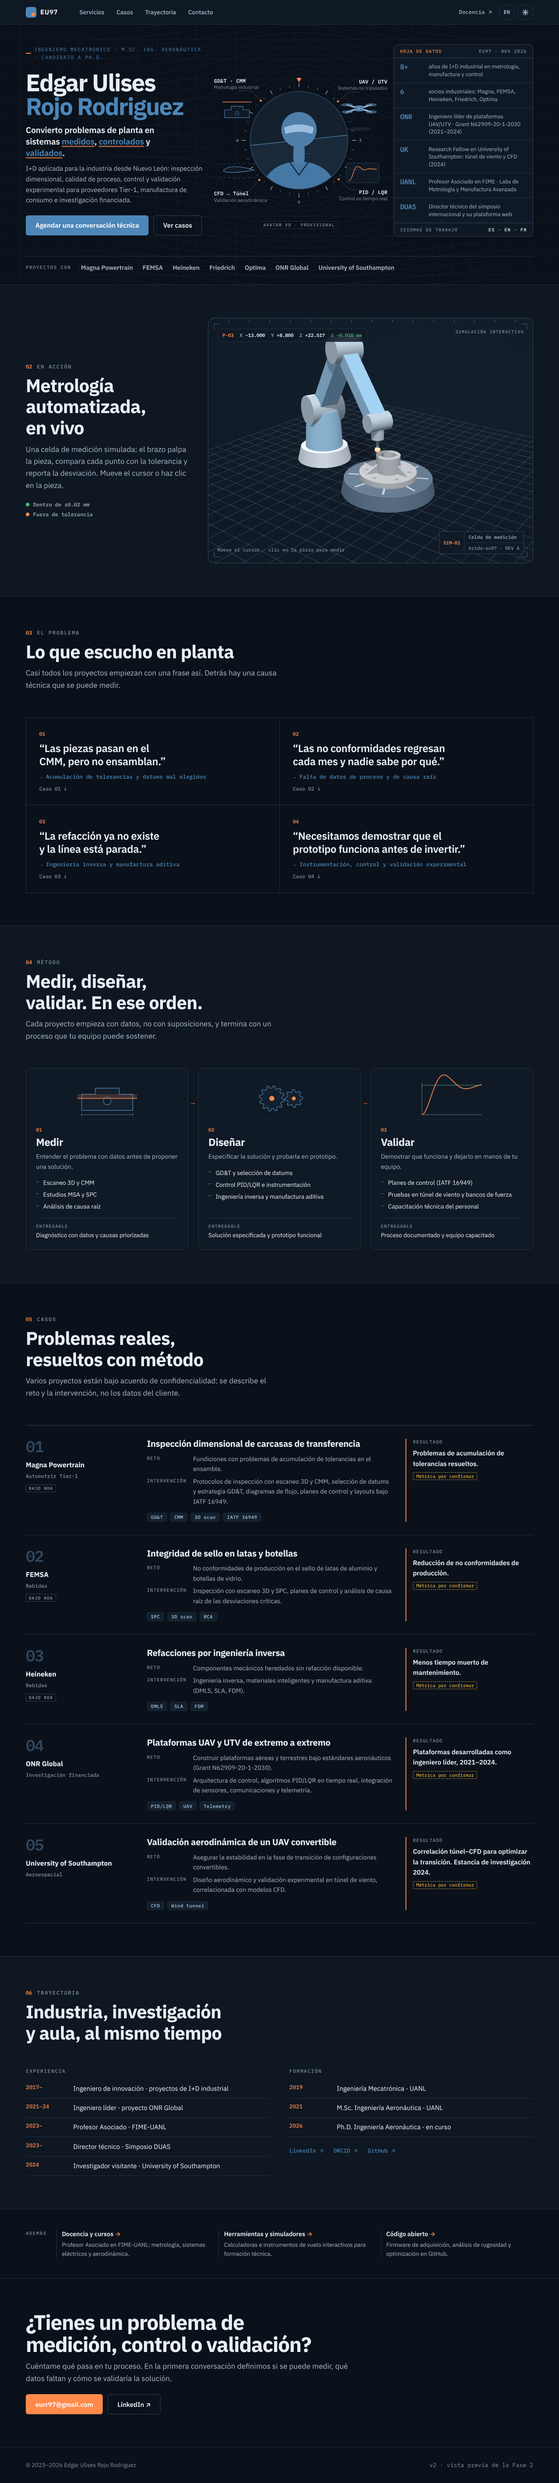
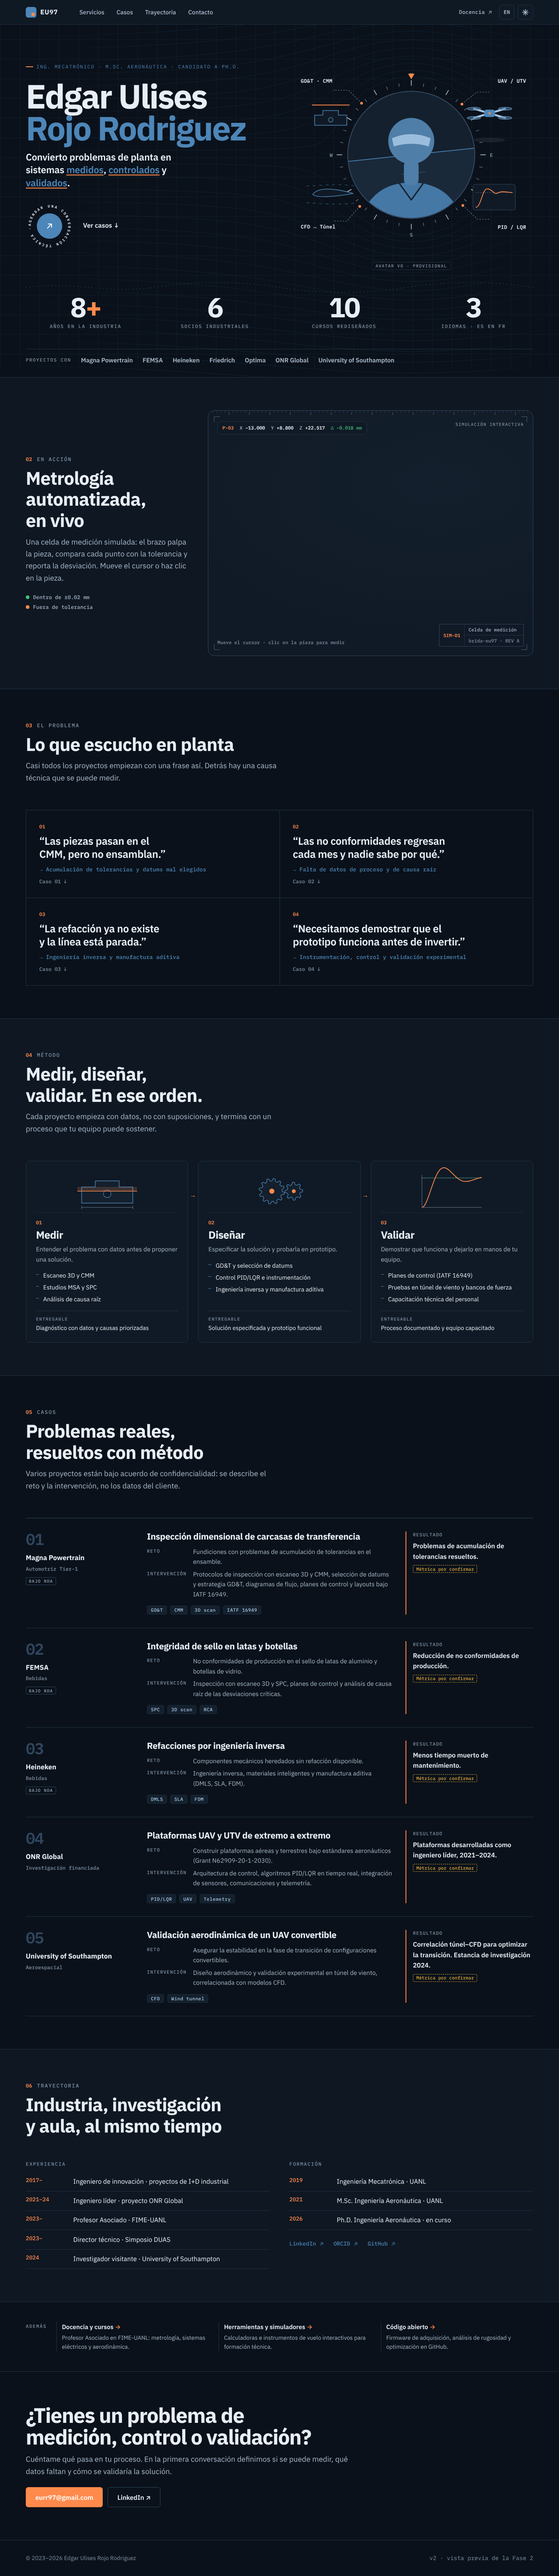
feat: hero más compacto con cifras y sello de contacto
- Se quitan la hoja de datos, el párrafo largo y los botones del hero.
- Cifras como en el sitio original (8+ años, 6 socios, 10 cursos,
  3 idiomas): grandes, sin cajas, con conteo y una línea de corriente.
- Contacto como sello circular con texto giratorio + enlace a casos.
- Etiquetas del avatar reducidas a la palabra clave; nombre más grande.

Claude-Session: https://claude.ai/code/session_01PvjHe33K872SCB2Q6VrJQ3

diff --git a/v2/home.css b/v2/home.css
@@ -28,20 +28,19 @@
 }
 .hero__wrap {
   position: relative; z-index: 1; width: min(100% - 2rem, var(--container)); margin-inline: auto;
-  display: grid; grid-template-columns: minmax(0, 1.05fr) minmax(0, 1fr) minmax(0, .82fr); gap: var(--space-5); align-items: center;
+  display: grid; grid-template-columns: minmax(0, 1fr) minmax(0, 1fr); gap: var(--space-5) var(--space-7); align-items: center;
 }
 .hero__name {
-  font-size: clamp(2.6rem, 4.3vw, 4rem); line-height: .98; letter-spacing: -.035em; font-weight: 700;
+  font-size: clamp(2.8rem, 6vw, 5.4rem); line-height: .95; letter-spacing: -.035em; font-weight: 700;
   margin: var(--space-3) 0 var(--space-4);
 }
 .hero__name span { display: block; color: var(--primary); }
-.hero__claim { font-size: clamp(1.15rem, 1.5vw, 1.35rem); line-height: 1.35; color: var(--ink); font-weight: 600; letter-spacing: -.01em; max-width: 30ch; margin-bottom: var(--space-3); }
+.hero__claim { font-size: clamp(1.15rem, 1.7vw, 1.45rem); line-height: 1.35; color: var(--ink); font-weight: 600; letter-spacing: -.01em; max-width: 30ch; margin-bottom: var(--space-3); }
 .hero__claim em { font-style: normal; color: var(--primary); box-shadow: inset 0 -.14em 0 color-mix(in srgb, var(--accent) 70%, transparent); }
-.hero__lede { font-size: 1rem; max-width: 48ch; }
 .hero__cta { display: flex; flex-wrap: wrap; gap: var(--space-3); margin-top: var(--space-5); }
 
 /* Avatar (v0, provisional) */
-.avatar { position: relative; margin: 0 auto; width: min(100%, 470px); aspect-ratio: 1; }
+.avatar { position: relative; margin: 0 auto; width: min(100%, 540px); aspect-ratio: 1; }
 .avatar__svg { width: 100%; height: 100%; overflow: visible; display: block; }
 .av-sky { fill: var(--steel-50); }
 .av-ground { fill: color-mix(in srgb, var(--steel-100) 70%, var(--surface-2)); }
@@ -87,26 +86,41 @@
 .av-sp { stroke: var(--ink-3); stroke-width: .8; stroke-dasharray: 2 3; }
 .av-trace { fill: none; stroke: var(--accent); stroke-width: 1.6; stroke-dasharray: 1; animation: draw 3.6s var(--ease) infinite; }
 /* etiquetas */
-.av-label { position: absolute; display: flex; flex-direction: column; gap: .05rem; font-size: .74rem; color: var(--ink-3); line-height: 1.25; pointer-events: none; }
-.av-label b { font: 600 .78rem var(--font-mono); color: var(--ink); letter-spacing: .02em; }
-.av-label--tl { left: 0; top: 13%; }
-.av-label--tr { right: -2%; top: 13.5%; text-align: right; align-items: flex-end; }
-.av-label--bl { left: 0; bottom: 13%; }
-.av-label--br { right: -2%; bottom: 14%; text-align: right; align-items: flex-end; }
+.av-label { position: absolute; font: 600 .78rem var(--font-mono); color: var(--ink); letter-spacing: .02em; pointer-events: none; }
+.av-label--tl { left: 0; top: 15%; }
+.av-label--tr { right: -2%; top: 15%; text-align: right; }
+.av-label--bl { left: 0; bottom: 16%; }
+.av-label--br { right: -2%; bottom: 16%; text-align: right; }
 .av-tag { position: absolute; left: 50%; bottom: -2%; transform: translateX(-50%); white-space: nowrap; font: 500 .66rem var(--font-mono); letter-spacing: .12em; text-transform: uppercase; color: var(--ink-3); border: 1px dashed var(--line-strong); border-radius: 3px; padding: .1rem .5rem; background: var(--bg); }
 
-/* Hoja de datos */
-.datasheet { border: 1px solid var(--line-strong); border-radius: var(--radius); background: color-mix(in srgb, var(--surface) 92%, transparent); backdrop-filter: blur(6px); box-shadow: var(--shadow-1); }
-.datasheet__head, .datasheet__foot { display: flex; justify-content: space-between; gap: var(--space-3); padding: .55rem .9rem; font: 500 .68rem var(--font-mono); letter-spacing: .12em; text-transform: uppercase; color: var(--ink-3); }
-.datasheet__head { border-bottom: 1px solid var(--line-strong); }
-.datasheet__head span:first-child { color: var(--accent); }
-.datasheet__foot { border-top: 1px solid var(--line-strong); }
-.datasheet__foot span:last-child { color: var(--ink); }
-.datasheet__rows { margin: 0; }
-.datasheet__rows > div { display: grid; grid-template-columns: 3.6rem 1fr; gap: var(--space-3); padding: .7rem .9rem; border-top: 1px solid var(--line); }
-.datasheet__rows > div:first-child { border-top: 0; }
-.datasheet__rows dt { font: 600 1.05rem/1.25 var(--font-mono); color: var(--primary); letter-spacing: -.02em; }
-.datasheet__rows dd { margin: 0; font-size: .84rem; line-height: 1.4; color: var(--ink-2); }
+/* Acción: sello circular + enlace */
+.hero__act { display: flex; align-items: center; gap: var(--space-5); margin-top: var(--space-6); }
+.seal { position: relative; width: 116px; height: 116px; flex: none; display: grid; place-items: center; color: var(--ink); border-radius: 50%; }
+.seal__ring { position: absolute; inset: 0; width: 100%; height: 100%; animation: heading 18s linear infinite; }
+.seal__ring text { font: 600 9.2px var(--font-mono); letter-spacing: .1em; fill: currentColor; }
+.seal__core {
+  width: 62px; height: 62px; border-radius: 50%; display: grid; place-items: center;
+  background: var(--primary); color: var(--on-primary);
+  box-shadow: 0 0 0 0 color-mix(in srgb, var(--primary) 45%, transparent); transition: transform .35s var(--ease), background .3s;
+  animation: pulse 2.8s ease-out infinite;
+}
+.seal__core svg { width: 24px; height: 24px; fill: none; stroke: currentColor; stroke-width: 2; stroke-linecap: round; stroke-linejoin: round; transition: transform .35s var(--ease); }
+.seal:hover { color: var(--accent); }
+.seal:hover .seal__core { transform: scale(1.08); background: var(--accent); }
+.seal:hover .seal__core svg { transform: translate(2px, -2px); }
+@keyframes pulse { 0% { box-shadow: 0 0 0 0 color-mix(in srgb, var(--primary) 45%, transparent); } 70%, 100% { box-shadow: 0 0 0 16px transparent; } }
+.hero__link { font-weight: 600; color: var(--ink); background: linear-gradient(var(--accent), var(--accent)) 0 100% / 0 2px no-repeat; padding-bottom: 2px; transition: background-size .35s var(--ease), color .2s; }
+.hero__link:hover { color: var(--ink); background-size: 100% 2px; }
+
+/* Cifras: grandes, sin cajas, sobre una línea de corriente */
+.feats { grid-column: 1 / -1; position: relative; display: grid; grid-template-columns: repeat(4, minmax(0, 1fr)); gap: var(--space-5); padding-top: var(--space-6); margin-top: var(--space-3); }
+.feats__wave { position: absolute; left: 0; right: 0; top: 0; width: 100%; height: 36px; overflow: visible; }
+.feats__wave path { fill: none; stroke: var(--line-strong); stroke-width: 1.4; vector-effect: non-scaling-stroke; stroke-dasharray: 2 7; animation: stream 2.4s linear infinite; }
+.feat { display: flex; flex-direction: column; align-items: center; text-align: center; gap: .35rem; }
+.feat__n { font: 700 clamp(2.6rem, 5vw, 4.2rem)/1 var(--font-sans); letter-spacing: -.04em; color: var(--ink); font-variant-numeric: tabular-nums; }
+.feat__n b { font-weight: inherit; }
+.feat__n i { font-style: normal; color: var(--accent); }
+.feat__l { font: 500 .74rem var(--font-mono); letter-spacing: .14em; text-transform: uppercase; color: var(--ink-3); }
 
 /* Sección "En acción" */
 .lab { display: grid; grid-template-columns: minmax(0, 4fr) minmax(0, 8fr); gap: var(--space-7); align-items: center; }
@@ -264,20 +278,10 @@
 .footer__inner { display: flex; flex-wrap: wrap; justify-content: space-between; gap: var(--space-3); }
 
 /* ---------- Responsivo ---------- */
-@media (max-width: 1180px) {
-  .hero__wrap { grid-template-columns: minmax(0, 1fr) minmax(0, 1fr); }
-  .datasheet { grid-column: 1 / -1; }
-  .datasheet__rows { display: grid; grid-template-columns: repeat(3, minmax(0, 1fr)); }
-  .datasheet__rows > div { border-top: 1px solid var(--line); border-left: 1px solid var(--line); }
-  .datasheet__rows > div:nth-child(3n+1) { border-left: 0; }
-  .datasheet__rows > div:nth-child(-n+3) { border-top: 0; }
-}
+
 @media (max-width: 820px) {
   .hero__wrap { grid-template-columns: 1fr; }
-  .datasheet__rows { grid-template-columns: repeat(2, minmax(0, 1fr)); }
-  .datasheet__rows > div:nth-child(n) { border-left: 1px solid var(--line); border-top: 1px solid var(--line); }
-  .datasheet__rows > div:nth-child(2n+1) { border-left: 0; }
-  .datasheet__rows > div:nth-child(-n+2) { border-top: 0; }
+  .feats { grid-template-columns: repeat(2, minmax(0, 1fr)); row-gap: var(--space-6); }
 }
 @media (max-width: 980px) {
   .lab { grid-template-columns: 1fr; gap: var(--space-5); }
@@ -296,14 +300,11 @@
   .record { grid-template-columns: 1fr; gap: var(--space-6); }
   .cell__block { display: none; }
   .av-label { font-size: .66rem; }
-  .av-label b { font-size: .7rem; }
-  .datasheet__rows { grid-template-columns: 1fr !important; }
-  .datasheet__rows > div:nth-child(n) { border-left: 0; border-top: 1px solid var(--line); }
-  .datasheet__rows > div:first-child { border-top: 0; }
 }
 
 /* Sin animaciones infinitas con movimiento reducido: estado final estático. */
 @media (prefers-reduced-motion: reduce) {
-  .art *, .avatar__svg * { animation: none !important; }
+  .art *, .avatar__svg *, .seal *, .feats__wave * { animation: none !important; }
+  .seal__ring { animation: none !important; }
   .art__beam { transform: translateY(40px); }
 }

diff --git a/v2/home.js b/v2/home.js
@@ -6,22 +6,16 @@
 
   SiteI18n.add({
     es: {
-      'h.eyebrow': 'Ingeniero mecatrónico · M.Sc. Ing. Aeronáutica · Candidato a Ph.D.',
+      'h.eyebrow': 'Ing. Mecatrónico · M.Sc. Aeronáutica · Candidato a Ph.D.',
       'h.title': 'Convierto problemas de planta en sistemas <em>medidos</em>, <em>controlados</em> y <em>validados</em>.',
-      'h.lede': 'I+D aplicada para la industria desde Nuevo León: inspección dimensional, calidad de proceso, control y validación experimental para proveedores Tier-1, manufactura de consumo e investigación financiada.',
       'av.aria': 'Avatar con las áreas de trabajo: metrología, sistemas no tripulados, aerodinámica y control',
-      'av.l1': 'GD&T · CMM', 'av.l1d': 'Metrología industrial',
-      'av.l2': 'UAV / UTV', 'av.l2d': 'Sistemas no tripulados',
-      'av.l3': 'CFD ↔ Túnel', 'av.l3d': 'Validación aerodinámica',
-      'av.l4': 'PID / LQR', 'av.l4d': 'Control en tiempo real',
+      'av.l1': 'GD&T · CMM',
+      'av.l2': 'UAV / UTV',
+      'av.l3': 'CFD ↔ Túnel',
+      'av.l4': 'PID / LQR',
       'av.tag': 'Avatar v0 · provisional',
-      'ds.aria': 'Hoja de datos con logros', 'ds.title': 'Hoja de datos', 'ds.lang': 'Idiomas de trabajo',
-      'ds.r1': 'años de I+D industrial en metrología, manufactura y control',
-      'ds.r2': 'socios industriales: Magna, FEMSA, Heineken, Friedrich, Optima',
-      'ds.r3': 'Ingeniero líder de plataformas UAV/UTV · Grant N62909-20-1-2030 (2021–2024)',
-      'ds.r4': 'Research Fellow en University of Southampton: túnel de viento y CFD (2024)',
-      'ds.r5': 'Profesor Asociado en FIME · Labs de Metrología y Manufactura Avanzada',
-      'ds.r6': 'Director técnico del simposio internacional y su plataforma web',
+      'h.seal': 'AGENDAR UNA CONVERSACIÓN TÉCNICA · ',
+      'st.1': 'Años en la industria', 'st.2': 'Socios industriales', 'st.3': 'Cursos rediseñados', 'st.4': 'Idiomas · ES EN FR',
       'lab.k': 'En acción', 'lab.title': 'Metrología automatizada, en vivo',
       'lab.lede': 'Una celda de medición simulada: el brazo palpa la pieza, compara cada punto con la tolerancia y reporta la desviación. Mueve el cursor o haz clic en la pieza.',
       'lab.ok': 'Dentro de ±0.02 mm', 'lab.out': 'Fuera de tolerancia',
@@ -48,22 +42,16 @@
       'f.copy': '© 2023–2026 Edgar Ulises Rojo Rodriguez', 'f.note': 'v2 · vista previa de la Fase 2'
     },
     en: {
-      'h.eyebrow': 'Mechatronics engineer · M.Sc. Aeronautical Eng. · Ph.D. candidate',
+      'h.eyebrow': 'Mechatronics Eng. · M.Sc. Aeronautics · Ph.D. candidate',
       'h.title': 'I turn shop‑floor problems into <em>measured</em>, <em>controlled</em>, <em>validated</em> systems.',
-      'h.lede': 'Applied R&D for industry from Nuevo León, Mexico: dimensional inspection, process quality, control and experimental validation for Tier-1 suppliers, consumer manufacturing and funded research.',
       'av.aria': 'Avatar with the work areas: metrology, unmanned systems, aerodynamics and control',
-      'av.l1': 'GD&T · CMM', 'av.l1d': 'Industrial metrology',
-      'av.l2': 'UAV / UTV', 'av.l2d': 'Unmanned systems',
-      'av.l3': 'CFD ↔ Tunnel', 'av.l3d': 'Aerodynamic validation',
-      'av.l4': 'PID / LQR', 'av.l4d': 'Real-time control',
+      'av.l1': 'GD&T · CMM',
+      'av.l2': 'UAV / UTV',
+      'av.l3': 'CFD ↔ Tunnel',
+      'av.l4': 'PID / LQR',
       'av.tag': 'Avatar v0 · placeholder',
-      'ds.aria': 'Data sheet with achievements', 'ds.title': 'Data sheet', 'ds.lang': 'Working languages',
-      'ds.r1': 'years of industrial R&D in metrology, manufacturing and control',
-      'ds.r2': 'industry partners: Magna, FEMSA, Heineken, Friedrich, Optima',
-      'ds.r3': 'Lead engineer for UAV/UTV platforms · Grant N62909-20-1-2030 (2021–2024)',
-      'ds.r4': 'Research Fellow at the University of Southampton: wind tunnel and CFD (2024)',
-      'ds.r5': 'Associate Professor at FIME · Metrology and Advanced Manufacturing labs',
-      'ds.r6': 'Technical director of the international symposium and its web platform',
+      'h.seal': 'BOOK A TECHNICAL CONVERSATION · ',
+      'st.1': 'Years in industry', 'st.2': 'Industry partners', 'st.3': 'Courses redesigned', 'st.4': 'Languages · ES EN FR',
       'lab.k': 'In action', 'lab.title': 'Automated metrology, live',
       'lab.lede': 'A simulated measurement cell: the arm probes the part, checks each point against the tolerance and reports the deviation. Move the cursor or click the part.',
       'lab.ok': 'Within ±0.02 mm', 'lab.out': 'Out of tolerance',

diff --git a/v2/index.html b/v2/index.html
@@ -26,10 +26,16 @@
           <span class="eyebrow" data-i18n="h.eyebrow"></span>
           <h1 class="hero__name">Edgar Ulises <span>Rojo Rodriguez</span></h1>
           <p class="hero__claim" data-i18n-html="h.title"></p>
-          <p class="hero__lede" data-i18n="h.lede"></p>
-          <div class="hero__cta">
-            <a class="btn btn--primary btn--lg" href="mailto:eurr97@gmail.com?subject=Conversaci%C3%B3n%20t%C3%A9cnica" data-i18n="h.cta"></a>
-            <a class="btn btn--ghost btn--lg" href="#casos" data-i18n="h.cta2"></a>
+          <div class="hero__act">
+            <!-- Sello circular de contacto: texto giratorio alrededor de una flecha -->
+            <a class="seal" href="mailto:eurr97@gmail.com?subject=Conversaci%C3%B3n%20t%C3%A9cnica" data-i18n-aria="h.cta">
+              <svg class="seal__ring" viewBox="0 0 120 120" aria-hidden="true">
+                <defs><path id="seal-path" d="M60 60 m-47 0 a47 47 0 1 1 94 0 a47 47 0 1 1 -94 0"/></defs>
+                <text><textPath href="#seal-path" textLength="292" lengthAdjust="spacing" data-i18n="h.seal"></textPath></text>
+              </svg>
+              <span class="seal__core" aria-hidden="true"><svg viewBox="0 0 24 24"><path d="M7 17 17 7M9 7h8v8"/></svg></span>
+            </a>
+            <a class="hero__link" href="#casos"><span data-i18n="h.cta2"></span> <span aria-hidden="true">↓</span></a>
           </div>
         </div>
 
@@ -100,25 +106,23 @@
               <path class="av-trace" pathLength="1" d="M6 50 C 18 50, 20 8, 32 10 S 46 24, 54 19 S 70 17, 86 18"/>
             </g>
           </svg>
-          <span class="av-label av-label--tl"><b data-i18n="av.l1"></b><span data-i18n="av.l1d"></span></span>
-          <span class="av-label av-label--tr"><b data-i18n="av.l2"></b><span data-i18n="av.l2d"></span></span>
-          <span class="av-label av-label--bl"><b data-i18n="av.l3"></b><span data-i18n="av.l3d"></span></span>
-          <span class="av-label av-label--br"><b data-i18n="av.l4"></b><span data-i18n="av.l4d"></span></span>
+          <span class="av-label av-label--tl" data-i18n="av.l1"></span>
+          <span class="av-label av-label--tr" data-i18n="av.l2"></span>
+          <span class="av-label av-label--bl" data-i18n="av.l3"></span>
+          <span class="av-label av-label--br" data-i18n="av.l4"></span>
           <figcaption class="av-tag" data-i18n="av.tag"></figcaption>
         </figure>
 
-        <aside class="datasheet" data-i18n-aria="ds.aria">
-          <header class="datasheet__head"><span data-i18n="ds.title"></span><span>EU97 · REV 2026</span></header>
-          <dl class="datasheet__rows">
-            <div><dt>8+</dt><dd data-i18n="ds.r1"></dd></div>
-            <div><dt>6</dt><dd data-i18n="ds.r2"></dd></div>
-            <div><dt>ONR</dt><dd data-i18n="ds.r3"></dd></div>
-            <div><dt>UK</dt><dd data-i18n="ds.r4"></dd></div>
-            <div><dt>UANL</dt><dd data-i18n="ds.r5"></dd></div>
-            <div><dt>DUAS</dt><dd data-i18n="ds.r6"></dd></div>
-          </dl>
-          <footer class="datasheet__foot"><span data-i18n="ds.lang"></span><span>ES · EN · FR</span></footer>
-        </aside>
+        <!-- Cifras: compactas, sin cajas, unidas por una línea de corriente -->
+        <div class="feats">
+          <svg class="feats__wave" viewBox="0 0 1200 40" preserveAspectRatio="none" aria-hidden="true">
+            <path d="M0 20 C 100 2, 200 38, 300 20 S 500 2, 600 20 S 800 38, 900 20 S 1100 2, 1200 20"/>
+          </svg>
+          <div class="feat"><span class="feat__n"><b data-count="8">8</b><i>+</i></span><span class="feat__l" data-i18n="st.1"></span></div>
+          <div class="feat"><span class="feat__n"><b data-count="6">6</b></span><span class="feat__l" data-i18n="st.2"></span></div>
+          <div class="feat"><span class="feat__n"><b data-count="10">10</b></span><span class="feat__l" data-i18n="st.3"></span></div>
+          <div class="feat"><span class="feat__n"><b data-count="3">3</b></span><span class="feat__l" data-i18n="st.4"></span></div>
+        </div>
       </div>
 
       <div class="container">

diff --git a/docs/PLAN-rediseno.md b/docs/PLAN-rediseno.md
@@ -32,7 +32,7 @@ Retomar: `git checkout feat/portfolio-redesign`, revisar la primera fase sin mar
 - [x] **0. Inventario**: `docs/inventory.md` (enlaces y rutas) y catálogo de cursos por área (`docs/catalog-draft.json`).
 - [x] **1. Sistema de diseño**: `styles/site.css` (convive con `main.css` hasta la Fase 4), `scripts/i18n.js`, `scripts/motion.js`, `scripts/topbar.js`, guía de estilo en `/styleguide/`. Vista previa: `docs/previews/fase1/index.md`.
 - [x] **1b. Banco de pruebas 3D**: `scripts/viewer3d.js` (API `mount`/`load`/`setView`/`setWireframe`/`snapshot`/`dispose`, montaje diferido, tema claro/oscuro), pieza de prueba y panel en `/styleguide/#modelo3d`. `tools/screenshot.mjs` espera a que los visores terminen. Vista previa: `docs/previews/fase1b/index.md`.
-- [~] **2. Home para industria** (`/v2/`): hero horizontal de identidad (nombre, avatar v0 con flujo potencial, horizonte artificial y elementos animados de las áreas: dron, escaneo, perfil aerodinámico, control; hoja de datos con logros), sección "En acción" con la celda de medición, problemas, método con animaciones SVG, casos, trayectoria, enlaces secundarios y contacto. Vista previa: `docs/previews/fase2/index.md`. Falta: métricas reales de los casos, avatar definitivo y revisión del autor.
+- [~] **2. Home para industria** (`/v2/`): hero horizontal de identidad (nombre, avatar v0 con flujo potencial, horizonte artificial y elementos animados de las áreas: dron, escaneo, perfil aerodinámico, control; cifras compactas como en el sitio original y sello circular de contacto, sin hoja de datos ni botones), sección "En acción" con la celda de medición, problemas, método con animaciones SVG, casos, trayectoria, enlaces secundarios y contacto. Vista previa: `docs/previews/fase2/index.md`. Falta: métricas reales de los casos, avatar definitivo y revisión del autor.
 - [ ] **3. Hubs**: `cursos/` y `herramientas/` con catálogos JSON.
 - [ ] **4. Reorganización**: mover carpetas, redirecciones, rutas absolutas; `/v2/` pasa a `/` y los enlaces secundarios apuntan a `/cursos/` y `/herramientas/`.
 - [ ] **5. Login con usuarios fijos**: `scripts/auth.js`.

diff --git a/docs/previews/fase2/index.md b/docs/previews/fase2/index.md
@@ -17,7 +17,7 @@ Móvil:
 
 Las capturas de arriba usan `prefers-reduced-motion: reduce` (líneas de corriente fijas, pose fija). Estas muestran la versión animada.
 
-Hero: flujo potencial alrededor del avatar, horizonte artificial que sigue el cursor, dron y elementos animados.
+Hero: flujo potencial alrededor del avatar, horizonte artificial que sigue el cursor, sello de contacto giratorio y cifras.
 
 ![hero](interaccion-hero.png)
 
